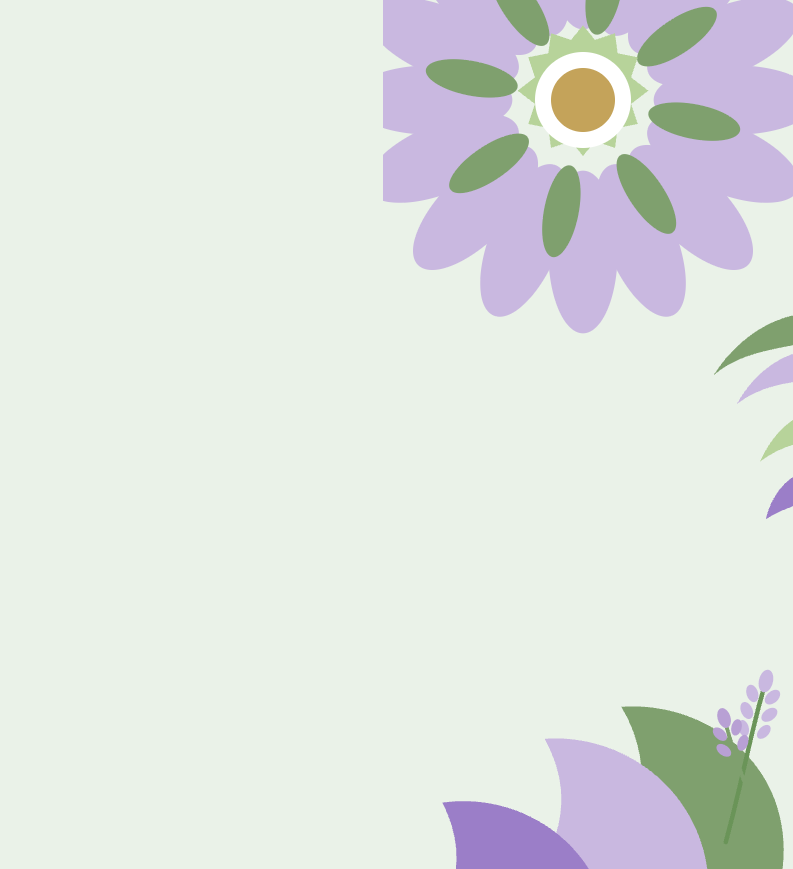
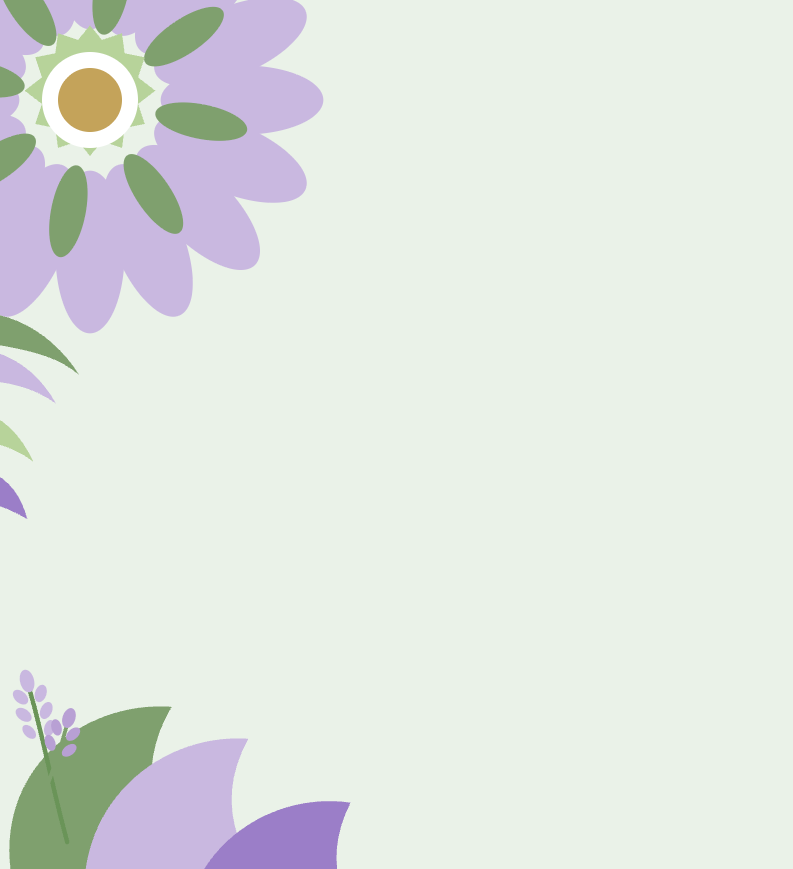
Update background image and adjust CSS positioning in background-v2.html for improved layout. Changed positioning properties for art elements to enhance visual alignment.

diff --git a/poster/background-v2.html b/poster/background-v2.html
@@ -25,23 +25,26 @@
     }
     .art-flower {
       top: -100px;
-      right: -110px;
+      left: -110px;
+      right: auto;
       width: 520px;
       height: 520px;
     }
     .art-side {
       top: 300px;
-      right: -100px;
+      left: -100px;
+      right: auto;
       width: 220px;
       height: 300px;
-      transform: scaleX(-1);
+      transform: none;
     }
     .art-bottom {
       bottom: -110px;
-      right: -20px;
+      left: -20px;
+      right: auto;
       width: 460px;
       height: 340px;
-      transform: scaleX(-1);
+      transform: none;
     }
   </style>
 </head>
